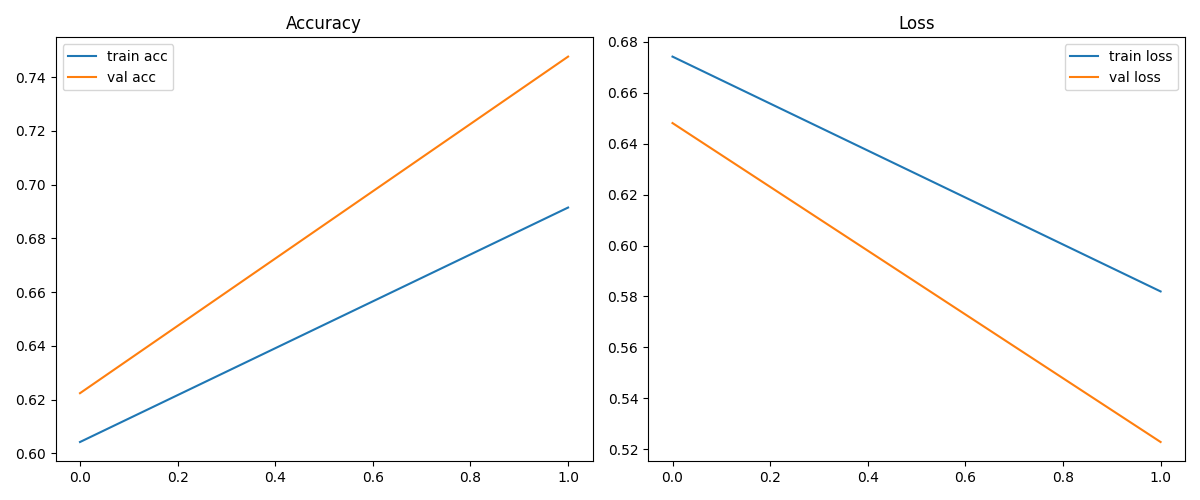
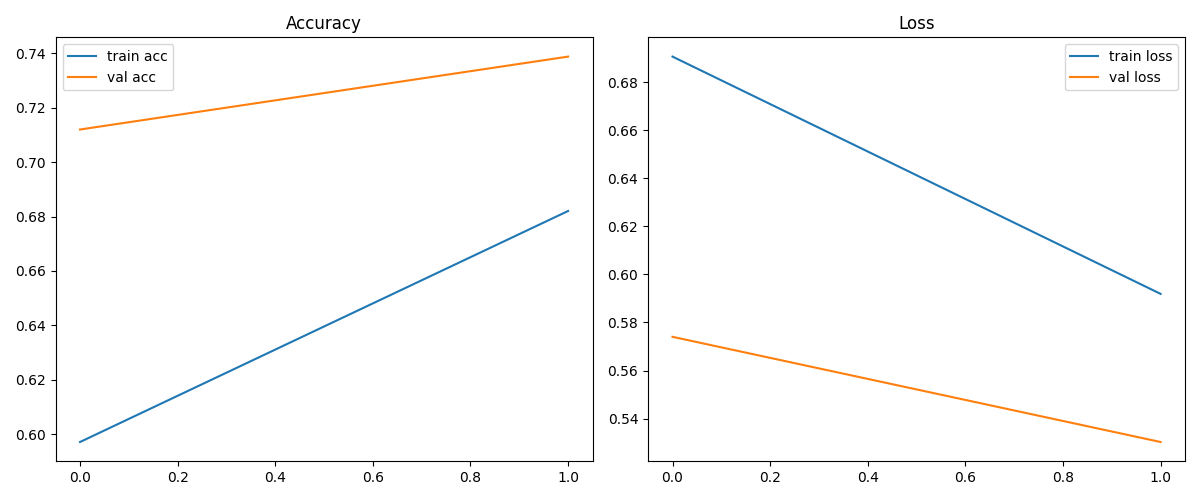
code Update

diff --git a/src/train.py b/src/train.py
@@ -5,21 +5,19 @@ from tensorflow.keras.preprocessing.image import ImageDataGenerator
 import mlflow
 import mlflow.keras
 import matplotlib.pyplot as plt
-import numpy as np
 
 # ────────────────────────────────────────────────
-# Configuration - easy to change / log
+# Configuration
 # ────────────────────────────────────────────────
 
 IMG_SIZE = (224, 224)
-BATCH_SIZE = 2
-EPOCHS = 64               # small for quick experiments; increase later
+BATCH_SIZE = 64
+EPOCHS = 2              # small for quick experiments; increase later
 LEARNING_RATE = 0.001
 AUGMENTATION = True
 
 DATA_DIR = "data/processed"
 
-# ────────────────────────────────────────────────
 def create_simple_cnn(input_shape=(224, 224, 3)):
     model = models.Sequential([
         layers.Input(shape=input_shape),
@@ -47,7 +45,6 @@ def create_simple_cnn(input_shape=(224, 224, 3)):
     
     return model
 
-# ────────────────────────────────────────────────
 def get_data_generators():
     train_datagen = ImageDataGenerator(
         rescale=1./255,
@@ -90,7 +87,6 @@ def get_data_generators():
     
     return train_gen, val_gen, test_gen
 
-# ────────────────────────────────────────────────
 def plot_history(history, save_path="training_history.png"):
     fig, (ax1, ax2) = plt.subplots(1, 2, figsize=(12, 5))
     
@@ -109,9 +105,7 @@ def plot_history(history, save_path="training_history.png"):
     plt.close()
     return save_path
 
-# ────────────────────────────────────────────────
 def main():
-    # ── MLflow setup ─────────────────────────────────
     mlflow.set_experiment("cats-vs-dogs-baseline")
     
     with mlflow.start_run(run_name="simple-cnn-run-1"):

diff --git a/src/inference.py b/src/inference.py
@@ -2,14 +2,13 @@ import os
 import numpy as np
 from PIL import Image
 import io
-import subprocess
 import logging
 import tensorflow as tf
 
-# load the model from the local path (later change to MLflow artifact)
+# load the model from the local path
 MODEL_PATH = "models/baseline_model.keras"
 
-# Global model (loaded once at startup - good for FastAPI)
+# Global model
 model = None
 
 logger = logging.getLogger(__name__)
@@ -18,20 +17,6 @@ def load_model():
     global model
     if model is not None:
         return model
-
-    if not os.path.exists(MODEL_PATH):
-        logger.info("Model not found locally → pulling from DVC (Backblaze B2)")
-        try:
-            result = subprocess.run(
-                ["dvc", "pull", "models/baseline_model.keras"],
-                check=True,
-                capture_output=True,
-                text=True
-            )
-            logger.info("Model successfully pulled from B2: " + result.stdout)
-        except Exception as e:
-            logger.error(f"Failed to pull model: {str(e)}")
-            raise RuntimeError("Model unavailable - service in health-only mode")
 
     try:
         model = tf.keras.models.load_model(MODEL_PATH)

diff --git a/src/app.py b/src/app.py
@@ -4,7 +4,6 @@ from src.inference import predict_image, load_model
 import logging
 import time
 from collections import Counter
-import json
 
 # Setup logging
 logging.basicConfig(
@@ -18,7 +17,7 @@ logging.basicConfig(
 logger = logging.getLogger(__name__)
 
 app = FastAPI(
-    title="Cats vs Dogs Inference API",
+    title="MLOPS Binary Classification Inference API",
     description="Binary image classification for pet adoption",
     version="0.1.0"
 )

diff --git a/src/tests/test_data_process.py b/src/tests/test_data_process.py
@@ -37,7 +37,7 @@ def test_preprocess_creates_correct_structure(setup_test_data):
         raw_root=TEST_RAW_DIR,
         processed_root=TEST_PROCESSED_DIR,
         img_size=(32, 32),  # small for test speed
-        train_ratio=0.6,          # ← smaller train
+        train_ratio=0.6,    # ← smaller train
         val_ratio=0.2
     )
     

diff --git a/src/tests/test_inference.py b/src/tests/test_inference.py
@@ -3,7 +3,7 @@ import pytest
 from unittest.mock import patch
 from src.inference import predict_image, load_model
 
-MODEL_PATH = "models/baseline_model.keras"  # or use os.getenv("MODEL_PATH", ...)
+MODEL_PATH = "models/baseline_model.keras"
 
 @pytest.fixture
 def dummy_cat_image_bytes():
